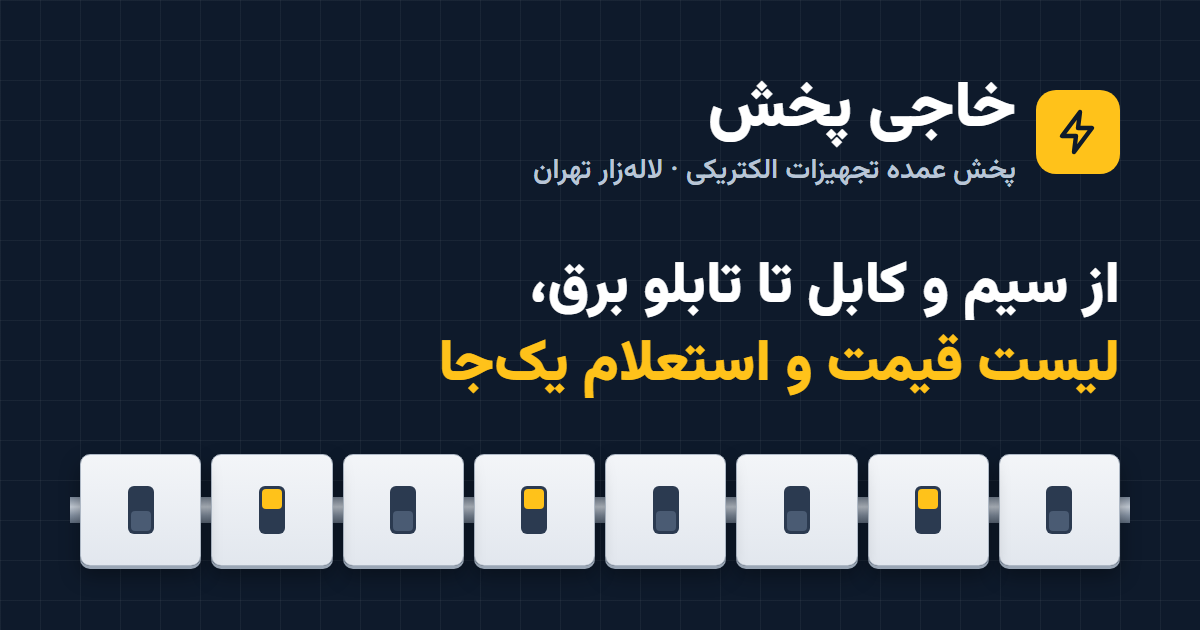
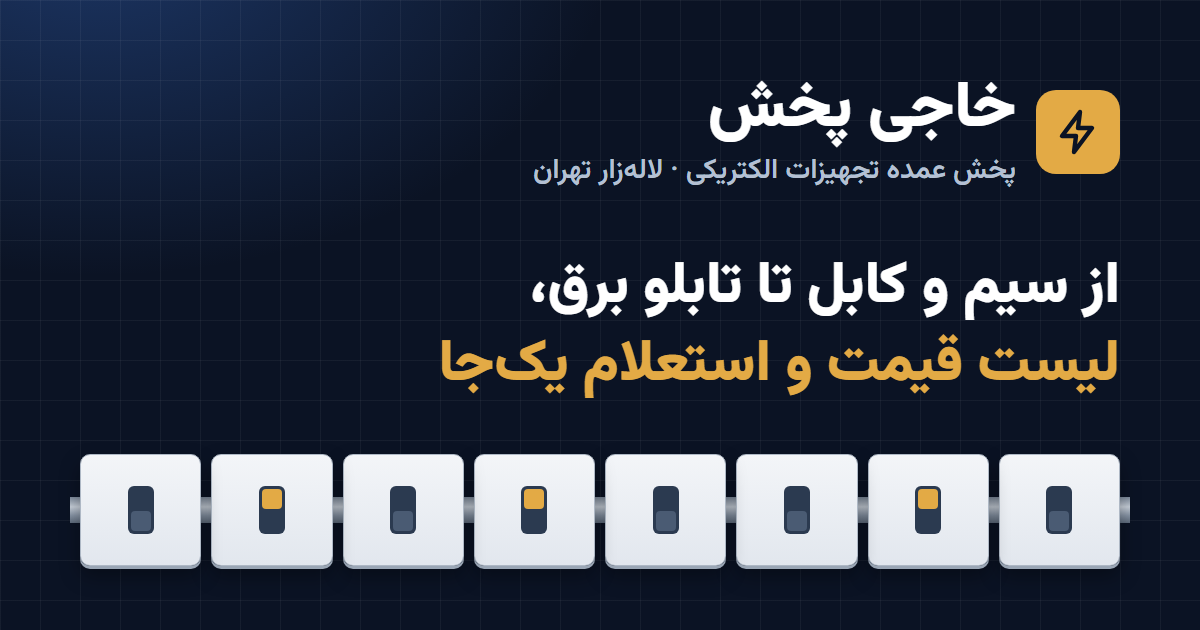
Deepen the navy, swap safety yellow for brass, and give the buttons liquid glass
Ink moves to #0B1324 and the accent to #E3AA45. Buttons become glass capsules
with a sheen, a top rim and a soft shadow; the header and the mobile bar become
blurred glass. Blur is kept to dark or scrolling backdrops, with fallbacks for
browsers without backdrop-filter and for reduced transparency. Every glass
surface measured at 4.5:1 or better.

diff --git a/src/site.css b/src/site.css
@@ -7,36 +7,37 @@
 }
 
 :root {
-  --ink: #0e1a2b;
-  --ink-2: #14243a;
-  --ink-3: #1c304b;
-  --ink-line: #2a4060;
-  --ink-deep: #0a1422;
-  --paper: #f4f6f9;
+  --ink: #0b1324;
+  --ink-2: #111c33;
+  --ink-3: #1b2943;
+  --ink-line: #273652;
+  --ink-deep: #070d1a;
+  --paper: #f5f7fa;
   --card: #fff;
-  --line: #dce2ea;
+  --line: #dde3eb;
   --line-2: #c3ccd8;
-  --text: #0e1a2b;
-  --muted: #4a5568;
+  --text: #0b1324;
+  --muted: #475569;
   --blue: #0a5bb5;
   --blue-ink: #08488f;
   --blue-bg: #e8f0fb;
-  --signal: #ffc21a;
-  --signal-2: #ffd25c;
-  --signal-ink: #0e1a2b;
+  --signal: #e3aa45;
+  --signal-2: #edc06e;
+  --signal-ink: #0b1324;
   --on-ink: #fff;
-  --on-ink-2: #b9c5d6;
+  --on-ink-2: #b4c0d3;
   --ok: #11743b;
   --ok-bg: #e6f4ec;
   --r-sm: 8px;
   --r: 12px;
   --r-lg: 18px;
-  --sh-1: 0 1px 2px rgb(14 26 43 / 0.06), 0 2px 8px rgb(14 26 43 / 0.06);
-  --sh-2: 0 10px 30px rgb(14 26 43 / 0.14);
+  --sh-1: 0 1px 2px rgb(11 19 36 / 0.06), 0 2px 8px rgb(11 19 36 / 0.06);
+  --sh-2: 0 10px 30px rgb(11 19 36 / 0.14);
   --wrap: 1200px;
   --gut: 16px;
   --hdr: 68px;
   --ease: cubic-bezier(0.2, 0.7, 0.2, 1);
+  --spring: cubic-bezier(0.34, 1.56, 0.64, 1);
 }
 @media (min-width: 768px) { :root { --gut: 24px; } }
 
@@ -75,39 +76,94 @@ button, input, textarea { font: inherit; color: inherit; }
 .skip { position: absolute; inset-inline-start: 8px; top: -80px; z-index: 100; padding: 10px 16px; border-radius: var(--r-sm); background: var(--signal); color: var(--signal-ink); font-weight: 700; text-decoration: none; }
 .skip:focus { top: 8px; }
 
-.preview-bar { padding: 8px var(--gut); background: #fff3c7; color: #3d2e00; border-bottom: 1px solid #f0dc94; font-size: 14px; line-height: 1.6; text-align: center; }
+.preview-bar { padding: 8px var(--gut); background: #fbf1dc; color: #3a2a07; border-bottom: 1px solid #ebd3a0; font-size: 14px; line-height: 1.6; text-align: center; }
 
-/* ---------- buttons ---------- */
+/* ---------- buttons: liquid glass ----------
+   Each button is a capsule of tinted glass: a sheen over its upper half (::before), a bright rim
+   along the top edge and a faint one along the bottom, and a soft shadow. Backdrop blur is used
+   only over the dark hero, the bands, the header and the mobile bar, where there is something
+   behind to blur; on plain white it costs paint time on cheap phones for no visible change. */
 .btn {
+  --g-rim: rgb(255 255 255 / 0.9);
+  --g-sheen: rgb(255 255 255 / 0.6);
+  --g-drop: 0 1px 2px rgb(11 19 36 / 0.08), 0 6px 16px rgb(11 19 36 / 0.1);
+  position: relative; isolation: isolate;
   display: inline-flex; align-items: center; justify-content: center; gap: 8px;
-  min-height: 48px; padding: 10px 20px;
-  border: 1.5px solid transparent; border-radius: var(--r-sm);
+  min-height: 48px; padding: 10px 22px;
+  border: 1px solid transparent; border-radius: 999px;
+  box-shadow: inset 0 1px 0 var(--g-rim), inset 0 -1px 0 rgb(255 255 255 / 0.16), var(--g-drop);
   font-size: 16px; font-weight: 700; line-height: 1.3; text-decoration: none; white-space: nowrap;
   cursor: pointer;
-  transition: background-color 0.18s var(--ease), border-color 0.18s var(--ease), color 0.18s var(--ease), transform 0.12s var(--ease);
+  transition: background-color 0.2s var(--ease), border-color 0.2s var(--ease), box-shadow 0.2s var(--ease), color 0.2s var(--ease), transform 0.45s var(--spring);
 }
-.btn:active { transform: translateY(1px); }
-.btn-lg { min-height: 56px; padding: 12px 24px; font-size: 17px; }
+.btn::before {
+  content: ""; position: absolute; inset: 1px; z-index: -1; border-radius: inherit; pointer-events: none;
+  background: linear-gradient(180deg, var(--g-sheen), transparent 55%);
+  opacity: 0.8;
+  transition: opacity 0.2s var(--ease);
+}
+.btn:hover::before { opacity: 1; }
+.btn:active { transform: scale(0.965); transition-duration: 0.2s, 0.2s, 0.2s, 0.2s, 0.08s; }
+.btn-lg { min-height: 56px; padding: 12px 28px; font-size: 17px; }
 .btn-block { width: 100%; }
-.btn-signal { background: var(--signal); color: var(--signal-ink); }
-.btn-signal:hover { background: var(--signal-2); color: var(--signal-ink); }
-.btn-primary { background: var(--ink); color: #fff; }
-.btn-primary:hover { background: var(--ink-3); color: #fff; }
-.btn-outline { background: #fff; color: var(--ink); border-color: var(--line-2); }
-.btn-outline:hover { border-color: var(--ink); color: var(--ink); }
-.btn-outline-light { background: transparent; color: #fff; border-color: rgb(255 255 255 / 0.4); }
-.btn-outline-light:hover { background: rgb(255 255 255 / 0.08); border-color: #fff; color: #fff; }
-.btn-ghost-light { min-height: 44px; padding: 8px 12px; background: transparent; color: #fff; }
-.btn-ghost-light:hover { background: rgb(255 255 255 / 0.08); color: #fff; }
-.btn-icon { display: inline-grid; place-items: center; width: 44px; height: 44px; padding: 0; border: 0; border-radius: var(--r-sm); background: transparent; color: inherit; cursor: pointer; }
+
+/* brass glass: the main call to action */
+.btn-signal {
+  --g-rim: rgb(255 255 255 / 0.75);
+  --g-sheen: rgb(255 255 255 / 0.45);
+  --g-drop: 0 1px 2px rgb(11 19 36 / 0.2), 0 8px 22px rgb(227 170 69 / 0.3);
+  background: linear-gradient(180deg, #efc678, var(--signal) 60%, #d99d34);
+  border-color: rgb(150 98 18 / 0.35);
+  color: var(--signal-ink);
+}
+.btn-signal:hover { --g-drop: 0 1px 2px rgb(11 19 36 / 0.2), 0 10px 28px rgb(227 170 69 / 0.42); color: var(--signal-ink); }
+
+/* dark glass: on light sections */
+.btn-primary {
+  --g-rim: rgb(255 255 255 / 0.26);
+  --g-sheen: rgb(255 255 255 / 0.16);
+  --g-drop: 0 1px 2px rgb(11 19 36 / 0.2), 0 8px 20px rgb(11 19 36 / 0.24);
+  background: linear-gradient(180deg, #26365a, var(--ink) 70%);
+  border-color: rgb(11 19 36 / 0.6);
+  color: #fff;
+}
+.btn-primary:hover { --g-drop: 0 1px 2px rgb(11 19 36 / 0.2), 0 12px 26px rgb(11 19 36 / 0.3); color: #fff; }
+
+/* clear glass: on light sections */
+.btn-outline {
+  background: rgb(255 255 255 / 0.72);
+  border-color: rgb(11 19 36 / 0.14);
+  color: var(--ink);
+}
+.btn-outline:hover { background: rgb(255 255 255 / 0.95); border-color: rgb(11 19 36 / 0.28); color: var(--ink); }
+
+/* clear glass: over the dark hero, bands and header */
+.btn-outline-light, .btn-ghost-light, .btn-list {
+  --g-rim: rgb(255 255 255 / 0.32);
+  --g-sheen: rgb(255 255 255 / 0.16);
+  --g-drop: 0 1px 2px rgb(0 0 0 / 0.2), 0 8px 20px rgb(0 0 0 / 0.22);
+  background: rgb(255 255 255 / 0.1);
+  border-color: rgb(255 255 255 / 0.22);
+  color: #fff;
+  -webkit-backdrop-filter: blur(12px) saturate(160%);
+  backdrop-filter: blur(12px) saturate(160%);
+}
+.btn-outline-light:hover, .btn-ghost-light:hover, .btn-list:hover { background: rgb(255 255 255 / 0.17); border-color: rgb(255 255 255 / 0.36); color: #fff; }
+.btn-ghost-light { min-height: 44px; padding: 8px 16px; background: rgb(255 255 255 / 0.06); border-color: rgb(255 255 255 / 0.14); }
+
+/* round icon buttons: glass discs in the header, plain on white */
+.btn-icon { display: inline-grid; place-items: center; width: 44px; height: 44px; padding: 0; border: 1px solid transparent; border-radius: 50%; background: transparent; color: inherit; cursor: pointer; transition: background-color 0.2s var(--ease), transform 0.45s var(--spring); }
 .btn-icon:hover { background: rgb(255 255 255 / 0.1); color: inherit; }
+.btn-icon:active { transform: scale(0.92); transition-duration: 0.2s, 0.08s; }
+.site-header .btn-icon { background: rgb(255 255 255 / 0.07); border-color: rgb(255 255 255 / 0.14); box-shadow: inset 0 1px 0 rgb(255 255 255 / 0.22); }
+.site-header .btn-icon:hover { background: rgb(255 255 255 / 0.15); }
 .btn-text { min-height: 44px; padding: 0 8px; border: 0; background: none; color: var(--muted); font-size: 15px; text-decoration: underline; text-underline-offset: 3px; cursor: pointer; }
 .btn-text:hover { color: var(--text); }
 .badge { display: inline-grid; place-items: center; min-width: 24px; height: 24px; padding: 0 6px; border-radius: 12px; background: var(--signal); color: var(--signal-ink); font-size: 14px; font-weight: 800; line-height: 1; }
 [aria-disabled="true"] { opacity: 0.45; pointer-events: none; }
 
 /* ---------- header ---------- */
-.site-header { position: sticky; top: 0; z-index: 50; background: var(--ink); color: #fff; border-bottom: 1px solid var(--ink-line); }
+.site-header { position: sticky; top: 0; z-index: 50; background: rgb(11 19 36 / 0.86); -webkit-backdrop-filter: blur(18px) saturate(160%); backdrop-filter: blur(18px) saturate(160%); color: #fff; border-bottom: 1px solid rgb(255 255 255 / 0.08); }
 .hdr { display: flex; align-items: center; gap: 8px; min-height: var(--hdr); }
 .logo { display: flex; align-items: center; gap: 10px; min-height: 44px; margin-inline-end: auto; color: #fff; text-decoration: none; }
 .logo:hover { color: #fff; }
@@ -117,8 +173,7 @@ button, input, textarea { font: inherit; color: inherit; }
 .logo-txt strong { font-size: 18px; font-weight: 900; }
 .logo-txt span { font-size: 13px; color: var(--on-ink-2); }
 .hdr-actions { display: flex; align-items: center; gap: 4px; }
-.btn-list { min-height: 44px; padding: 8px 12px; background: rgb(255 255 255 / 0.08); border-color: rgb(255 255 255 / 0.2); color: #fff; }
-.btn-list:hover { background: rgb(255 255 255 / 0.14); color: #fff; }
+.btn-list { min-height: 44px; padding: 8px 14px; }
 .nav { display: none; }
 .nav ul { display: flex; gap: 2px; }
 .nav a { display: flex; align-items: center; min-height: 44px; padding: 0 14px; border-radius: var(--r-sm); color: #fff; font-size: 15px; font-weight: 600; text-decoration: none; }
@@ -144,7 +199,13 @@ button, input, textarea { font: inherit; color: inherit; }
 }
 
 /* ---------- hero ---------- */
-.hero, .phero { position: relative; overflow: hidden; background: var(--ink); color: #fff; }
+.hero, .phero, .band {
+  background:
+    radial-gradient(70% 90% at 92% -12%, rgb(46 90 168 / 0.5), transparent 62%),
+    radial-gradient(55% 70% at 0% 112%, rgb(227 170 69 / 0.13), transparent 70%),
+    var(--ink);
+}
+.hero, .phero { position: relative; overflow: hidden; color: #fff; }
 .hero::before, .phero::before {
   content: ""; position: absolute; inset: 0; pointer-events: none;
   background-image: linear-gradient(rgb(255 255 255 / 0.04) 1px, transparent 1px), linear-gradient(90deg, rgb(255 255 255 / 0.04) 1px, transparent 1px);
@@ -155,7 +216,7 @@ button, input, textarea { font: inherit; color: inherit; }
 .hero-grid { position: relative; display: grid; gap: 36px; padding-block: 36px 48px; }
 @media (min-width: 960px) { .hero-grid { grid-template-columns: 1.05fr 0.95fr; align-items: center; gap: 56px; padding-block: 72px 84px; } }
 .eyebrow { display: inline-flex; align-items: center; gap: 10px; margin-bottom: 14px; color: var(--on-ink-2); font-size: 14px; font-weight: 600; }
-.dot { width: 8px; height: 8px; flex: none; border-radius: 50%; background: var(--signal); box-shadow: 0 0 0 4px rgb(255 194 26 / 0.2); }
+.dot { width: 8px; height: 8px; flex: none; border-radius: 50%; background: var(--signal); box-shadow: 0 0 0 4px rgb(227 170 69 / 0.22); }
 .hero h1 { font-size: clamp(2rem, 1.25rem + 3.4vw, 3.5rem); font-weight: 900; line-height: 1.28; }
 .hl { color: var(--signal); }
 .lead { max-width: 36em; margin-top: 16px; color: var(--on-ink-2); font-size: clamp(1.05rem, 1rem + 0.3vw, 1.2rem); }
@@ -168,7 +229,7 @@ button, input, textarea { font: inherit; color: inherit; }
 .facts strong { color: #fff; font-size: 18px; font-weight: 800; }
 
 /* the distribution board: eight category breakers on two DIN rails */
-.board { padding: 16px; border: 1px solid var(--ink-line); border-radius: var(--r-lg); background: linear-gradient(180deg, #1a2d47, #12223a); box-shadow: inset 0 1px 0 rgb(255 255 255 / 0.06), 0 24px 60px rgb(0 0 0 / 0.35); }
+.board { padding: 16px; border: 1px solid var(--ink-line); border-radius: var(--r-lg); background: linear-gradient(180deg, #17233c, #0e182c); box-shadow: inset 0 1px 0 rgb(255 255 255 / 0.06), 0 24px 60px rgb(0 0 0 / 0.35); }
 .board-head { display: flex; align-items: baseline; justify-content: space-between; gap: 12px; margin-bottom: 18px; padding: 2px 4px 14px; border-bottom: 1px dashed var(--ink-line); }
 .board-title { font-size: 17px; font-weight: 800; }
 .board-sub { color: var(--on-ink-2); font-size: 14px; }
@@ -251,9 +312,9 @@ button, input, textarea { font: inherit; color: inherit; }
 .search input:focus { border-color: var(--blue); outline: 3px solid rgb(10 91 181 / 0.22); outline-offset: 0; }
 .chips { display: flex; gap: 8px; margin-inline: calc(var(--gut) * -1); padding: 2px var(--gut) 6px; overflow-x: auto; scrollbar-width: thin; }
 @media (min-width: 768px) { .chips { flex-wrap: wrap; margin-inline: 0; padding-inline: 0; overflow: visible; } }
-.chip { flex: none; min-height: 44px; padding: 8px 16px; border: 1.5px solid var(--line-2); border-radius: 999px; background: #fff; font-size: 15px; font-weight: 600; cursor: pointer; transition: background-color 0.15s var(--ease), border-color 0.15s var(--ease), color 0.15s var(--ease); }
-.chip:hover { border-color: var(--ink); }
-.chip[aria-pressed="true"] { background: var(--ink); border-color: var(--ink); color: #fff; }
+.chip { flex: none; min-height: 44px; padding: 8px 16px; border: 1px solid rgb(11 19 36 / 0.14); border-radius: 999px; background: linear-gradient(180deg, #fff, #f1f4f8); box-shadow: inset 0 1px 0 #fff, 0 1px 2px rgb(11 19 36 / 0.06), 0 3px 10px rgb(11 19 36 / 0.06); font-size: 15px; font-weight: 600; cursor: pointer; transition: background-color 0.15s var(--ease), border-color 0.15s var(--ease), color 0.15s var(--ease); }
+.chip:hover { border-color: rgb(11 19 36 / 0.3); }
+.chip[aria-pressed="true"] { background: linear-gradient(180deg, #26365a, var(--ink) 70%); border-color: rgb(11 19 36 / 0.6); box-shadow: inset 0 1px 0 rgb(255 255 255 / 0.24), 0 4px 12px rgb(11 19 36 / 0.22); color: #fff; }
 .pl-meta { display: flex; flex-wrap: wrap; justify-content: space-between; gap: 4px 12px; margin: 6px 0 10px; color: var(--muted); font-size: 14px; }
 .pl-meta [data-count] { color: var(--text); font-weight: 700; }
 .pt-wrap { border: 1px solid var(--line); border-radius: var(--r); background: #fff; overflow: clip; }
@@ -272,10 +333,11 @@ button, input, textarea { font: inherit; color: inherit; }
 .c-cat a, .c-brand a { color: var(--text); text-decoration: underline; text-decoration-color: var(--line-2); }
 .c-cat a:hover, .c-brand a:hover { color: var(--blue); text-decoration-color: currentColor; }
 .c-add { width: 1%; text-align: end; }
-.add { display: inline-flex; align-items: center; justify-content: center; gap: 6px; min-height: 44px; padding: 8px 14px; border: 1.5px solid var(--ink); border-radius: var(--r-sm); background: #fff; color: var(--ink); font-size: 15px; font-weight: 700; white-space: nowrap; cursor: pointer; transition: background-color 0.15s var(--ease), color 0.15s var(--ease), border-color 0.15s var(--ease); }
-.add:hover { background: var(--ink); color: #fff; }
-.add.in { background: var(--ok-bg); border-color: var(--ok); color: var(--ok); }
-.add.in:hover { background: var(--ok); color: #fff; }
+.add { display: inline-flex; align-items: center; justify-content: center; gap: 6px; min-height: 44px; padding: 8px 14px; border: 1px solid rgb(11 19 36 / 0.2); border-radius: 999px; background: linear-gradient(180deg, #fff, #eef2f7); box-shadow: inset 0 1px 0 #fff, 0 1px 2px rgb(11 19 36 / 0.08), 0 4px 12px rgb(11 19 36 / 0.07); color: var(--ink); font-size: 15px; font-weight: 700; white-space: nowrap; cursor: pointer; transition: background-color 0.15s var(--ease), color 0.15s var(--ease), border-color 0.15s var(--ease), transform 0.45s var(--spring); }
+.add:hover { background: linear-gradient(180deg, #26365a, var(--ink) 70%); border-color: rgb(11 19 36 / 0.6); box-shadow: inset 0 1px 0 rgb(255 255 255 / 0.24), 0 6px 16px rgb(11 19 36 / 0.22); color: #fff; }
+.add:active { transform: scale(0.965); }
+.add.in { background: linear-gradient(180deg, #f1faf4, #dcf0e4); border-color: rgb(17 116 59 / 0.4); color: var(--ok); }
+.add.in:hover { background: linear-gradient(180deg, #197f44, var(--ok) 70%); border-color: rgb(17 116 59 / 0.8); color: #fff; }
 .add .i { width: 18px; height: 18px; }
 .js .pl:not(.open):not(.filtering) tr[data-extra] { display: none; }
 .pl-empty { display: grid; justify-items: center; gap: 12px; margin-top: 12px; padding: 28px; border: 1px dashed var(--line-2); border-radius: var(--r); background: #fff; text-align: center; }
@@ -330,7 +392,7 @@ button, input, textarea { font: inherit; color: inherit; }
 .faq details p { padding: 0 18px 18px; color: var(--muted); font-size: 15.5px; }
 
 /* contact band */
-.band { padding-block: 56px; background: var(--ink); color: #fff; }
+.band { padding-block: 56px; color: #fff; }
 .band-grid { display: grid; gap: 24px; }
 @media (min-width: 960px) { .band-grid { grid-template-columns: 1.3fr auto; align-items: center; column-gap: 48px; } }
 .band h2 { font-size: clamp(1.5rem, 1.2rem + 1.4vw, 2.1rem); font-weight: 900; }
@@ -341,11 +403,11 @@ button, input, textarea { font: inherit; color: inherit; }
 .addr { display: flex; align-items: flex-start; gap: 10px; color: var(--on-ink-2); }
 .addr .i { margin-top: 4px; color: var(--signal); }
 .map-links { display: flex; flex-wrap: wrap; gap: 8px; }
-.map-links a { display: inline-flex; align-items: center; gap: 6px; min-height: 44px; padding: 8px 14px; border: 1.5px solid var(--line-2); border-radius: 999px; background: #fff; color: var(--ink); font-size: 14px; font-weight: 700; text-decoration: none; }
-.map-links a:hover { border-color: var(--ink); color: var(--ink); }
+.map-links a { display: inline-flex; align-items: center; gap: 6px; min-height: 44px; padding: 8px 14px; border: 1px solid rgb(255 255 255 / 0.6); border-radius: 999px; background: rgb(255 255 255 / 0.88); -webkit-backdrop-filter: blur(10px) saturate(160%); backdrop-filter: blur(10px) saturate(160%); box-shadow: inset 0 1px 0 #fff, 0 4px 14px rgb(11 19 36 / 0.16); color: var(--ink); font-size: 14px; font-weight: 700; text-decoration: none; }
+.map-links a:hover { background: #fff; color: var(--ink); }
 .map-links .i { width: 18px; height: 18px; }
-.band .map-links a { border-color: rgb(255 255 255 / 0.35); background: transparent; color: #fff; }
-.band .map-links a:hover { border-color: #fff; }
+.band .map-links a { border-color: rgb(255 255 255 / 0.24); background: rgb(255 255 255 / 0.1); box-shadow: inset 0 1px 0 rgb(255 255 255 / 0.3), 0 6px 16px rgb(0 0 0 / 0.2); color: #fff; }
+.band .map-links a:hover { background: rgb(255 255 255 / 0.17); border-color: rgb(255 255 255 / 0.4); color: #fff; }
 
 /* page hero */
 .phero-grid { position: relative; display: grid; gap: 24px; padding-block: 12px 44px; }
@@ -411,14 +473,14 @@ button, input, textarea { font: inherit; color: inherit; }
 .ft-bottom { display: flex; flex-wrap: wrap; justify-content: space-between; gap: 8px; margin-top: 32px; padding-block: 20px; border-top: 1px solid var(--ink-line); font-size: 14px; }
 
 /* mobile action bar */
-.mbar { position: fixed; inset-inline: 0; bottom: 0; z-index: 40; display: grid; grid-template-columns: 1fr 1.5fr; gap: 8px; padding: 10px var(--gut) calc(10px + env(safe-area-inset-bottom)); border-top: 1px solid var(--line); background: rgb(255 255 255 / 0.97); box-shadow: 0 -6px 20px rgb(14 26 43 / 0.08); }
+.mbar { position: fixed; inset-inline: 0; bottom: 0; z-index: 40; display: grid; grid-template-columns: 1fr 1.5fr; gap: 8px; padding: 10px var(--gut) calc(10px + env(safe-area-inset-bottom)); border-top: 1px solid rgb(11 19 36 / 0.08); background: rgb(255 255 255 / 0.74); -webkit-backdrop-filter: blur(20px) saturate(180%); backdrop-filter: blur(20px) saturate(180%); box-shadow: 0 -6px 20px rgb(11 19 36 / 0.08); }
 .mbar .badge { margin-inline-start: 2px; }
 @media (max-width: 719.98px) { .site-footer { padding-bottom: calc(70px + env(safe-area-inset-bottom)); } }
 @media (min-width: 720px) { .mbar { display: none; } }
 
 /* inquiry drawer */
 .drawer { position: fixed; inset-block: 0; inset-inline-start: auto; inset-inline-end: 0; width: min(440px, 100%); max-width: 100%; height: 100%; max-height: none; margin: 0; padding: 0; border: 0; background: #fff; color: var(--text); box-shadow: var(--sh-2); }
-.drawer::backdrop { background: rgb(10 20 34 / 0.55); }
+.drawer::backdrop { background: rgb(7 13 26 / 0.55); }
 .drawer[open] { animation: drawer-in 0.24s var(--ease); }
 @keyframes drawer-in { from { transform: translateX(-28px); opacity: 0; } }
 .drawer-in { display: flex; flex-direction: column; height: 100%; }
@@ -452,3 +514,24 @@ button, input, textarea { font: inherit; color: inherit; }
 .toast { position: fixed; z-index: 60; inset-inline: 16px; bottom: 88px; max-width: 380px; margin-inline: auto; padding: 12px 16px; border-radius: var(--r-sm); background: var(--ink); color: #fff; box-shadow: var(--sh-2); font-size: 15px; font-weight: 600; text-align: center; opacity: 0; transform: translateY(8px); pointer-events: none; transition: opacity 0.2s var(--ease), transform 0.2s var(--ease); }
 .toast.show { opacity: 1; transform: none; }
 @media (min-width: 720px) { .toast { bottom: 24px; } }
+
+/* ---------- glass fallbacks ---------- */
+@supports not ((backdrop-filter: blur(1px)) or (-webkit-backdrop-filter: blur(1px))) {
+  .site-header { background: var(--ink); }
+  .mbar { background: rgb(255 255 255 / 0.97); }
+  .btn-outline-light, .btn-ghost-light, .btn-list { background: rgb(255 255 255 / 0.14); }
+}
+@media (prefers-reduced-transparency: reduce) {
+  .site-header { background: var(--ink); -webkit-backdrop-filter: none; backdrop-filter: none; }
+  .mbar { background: #fff; -webkit-backdrop-filter: none; backdrop-filter: none; }
+  .btn-outline-light, .btn-ghost-light, .btn-list, .site-header .btn-icon { background: var(--ink-3); -webkit-backdrop-filter: none; backdrop-filter: none; }
+  .btn-outline, .map-links a { background: #fff; -webkit-backdrop-filter: none; backdrop-filter: none; }
+  .band .map-links a { background: var(--ink-3); }
+}
+@media (prefers-reduced-motion: reduce) {
+  .btn:active, .btn-icon:active, .add:active { transform: none; }
+}
+@media (forced-colors: active) {
+  .btn, .chip, .add, .btn-icon { border-color: ButtonText; }
+  .btn::before { display: none; }
+}

diff --git a/tools/og.html b/tools/og.html
@@ -5,23 +5,23 @@
 @font-face{font-family:V;src:url(../static/fonts/Vazirmatn-Variable.woff2) format("woff2");font-weight:100 900}
 *{box-sizing:border-box;margin:0}
 html,body{width:1200px;height:630px;overflow:hidden}
-body{font-family:V,sans-serif;background:#0E1A2B;color:#fff;position:relative;padding:72px 80px}
+body{font-family:V,sans-serif;background:radial-gradient(70% 90% at 8% -12%,rgb(46 90 168/.5),transparent 62%),#0B1324;color:#fff;position:relative;padding:72px 80px}
 body::before{content:"";position:absolute;inset:0;background-image:linear-gradient(rgb(255 255 255/.05) 1px,transparent 1px),linear-gradient(90deg,rgb(255 255 255/.05) 1px,transparent 1px);background-size:40px 40px}
 .top{position:relative;display:flex;align-items:center;gap:20px}
-.mark{width:84px;height:84px;border-radius:20px;background:#FFC21A;display:grid;place-items:center}
+.mark{width:84px;height:84px;border-radius:20px;background:#E3AA45;display:grid;place-items:center}
 .mark svg{width:48px;height:48px}
 .name{font-size:64px;font-weight:900;line-height:1.2}
-.sub{font-size:28px;color:#B9C5D6;font-weight:600}
+.sub{font-size:28px;color:#B4C0D3;font-weight:600}
 h1{position:relative;margin-top:56px;font-size:58px;font-weight:900;line-height:1.35}
-h1 span{color:#FFC21A}
+h1 span{color:#E3AA45}
 .rail{position:absolute;inset-inline:80px;bottom:64px;height:112px;display:grid;grid-template-columns:repeat(8,1fr);gap:10px}
 .rail::before{content:"";position:absolute;inset-inline:-10px;top:50%;height:26px;transform:translateY(-50%);background:linear-gradient(180deg,#7d8a9b,#c9d1db 38%,#8a97a8 70%,#5e6b7c)}
 .m{position:relative;background:linear-gradient(180deg,#f3f5f8,#e2e7ee);border-radius:10px;border:1px solid #aeb8c5;box-shadow:0 3px 0 #9aa6b5,0 10px 20px rgb(0 0 0/.35);display:grid;place-items:center}
 .m i{display:block;width:26px;height:48px;border-radius:6px;background:#2b3a50;position:relative}
 .m i::after{content:"";position:absolute;inset-inline:3px;bottom:3px;height:20px;border-radius:4px;background:#4a5b73}
-.m.on i::after{bottom:auto;top:3px;background:#FFC21A}
+.m.on i::after{bottom:auto;top:3px;background:#E3AA45}
 </style></head><body>
-<div class="top"><div class="mark"><svg viewBox="0 0 24 24" fill="none" stroke="#0E1A2B" stroke-width="2.2" stroke-linejoin="round"><path d="M13 2 4 14h7l-1 8 9-12h-7z"/></svg></div>
+<div class="top"><div class="mark"><svg viewBox="0 0 24 24" fill="none" stroke="#0B1324" stroke-width="2.2" stroke-linejoin="round"><path d="M13 2 4 14h7l-1 8 9-12h-7z"/></svg></div>
 <div><p class="name">خاجی پخش</p><p class="sub">پخش عمده تجهیزات الکتریکی · لالهزار تهران</p></div></div>
 <h1>از سیم و کابل تا تابلو برق،<br><span>لیست قیمت و استعلام یکجا</span></h1>
 <div class="rail"><div class="m"><i></i></div><div class="m on"><i></i></div><div class="m"><i></i></div><div class="m"><i></i></div><div class="m on"><i></i></div><div class="m"><i></i></div><div class="m on"><i></i></div><div class="m"><i></i></div></div>

diff --git a/tools/icon.html b/tools/icon.html
@@ -1,6 +1,6 @@
 <!doctype html>
 <!-- Source of static/apple-touch-icon.png. Regenerate: node tools/render-images.mjs -->
 <html><head><meta charset="utf-8"><style>
-*{margin:0}html,body{width:180px;height:180px;overflow:hidden;background:#FFC21A}
+*{margin:0}html,body{width:180px;height:180px;overflow:hidden;background:#E3AA45}
 body{display:grid;place-items:center}svg{width:112px;height:112px}
-</style></head><body><svg viewBox="0 0 24 24" fill="#0E1A2B"><path d="M13 2 4 14h7l-1 8 9-12h-7z"/></svg></body></html>
+</style></head><body><svg viewBox="0 0 24 24" fill="#0B1324"><path d="M13 2 4 14h7l-1 8 9-12h-7z"/></svg></body></html>
